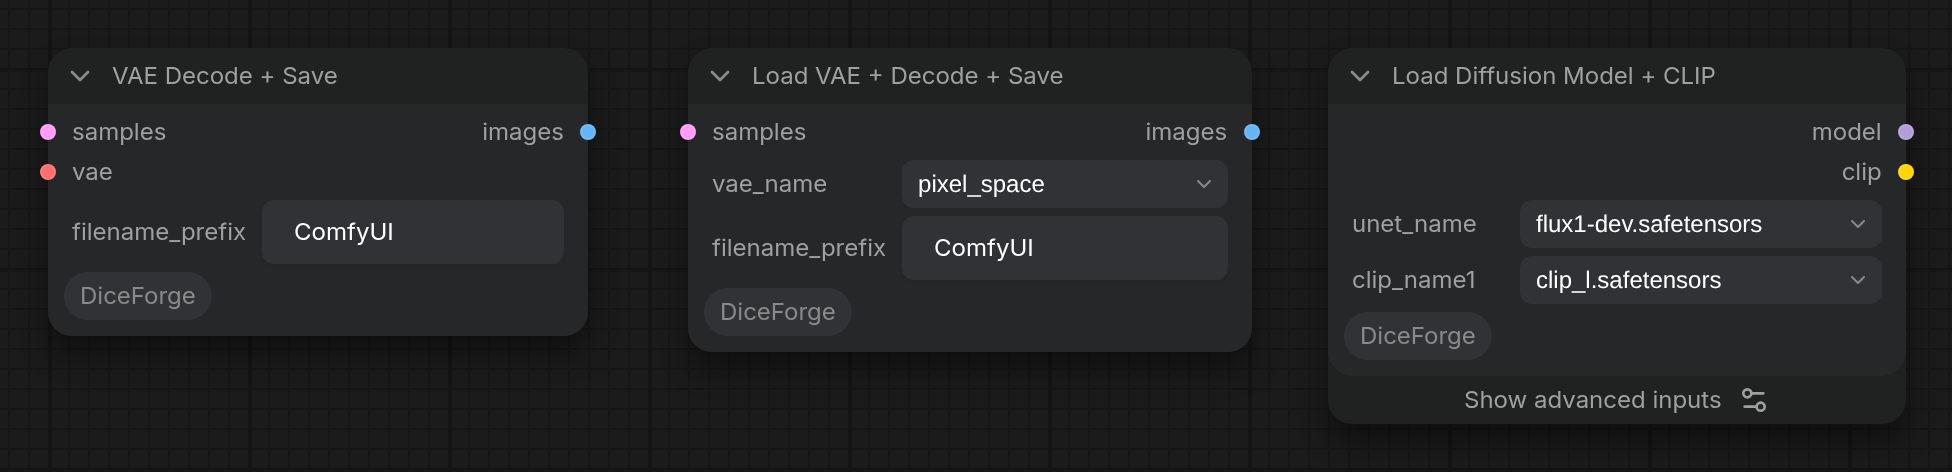
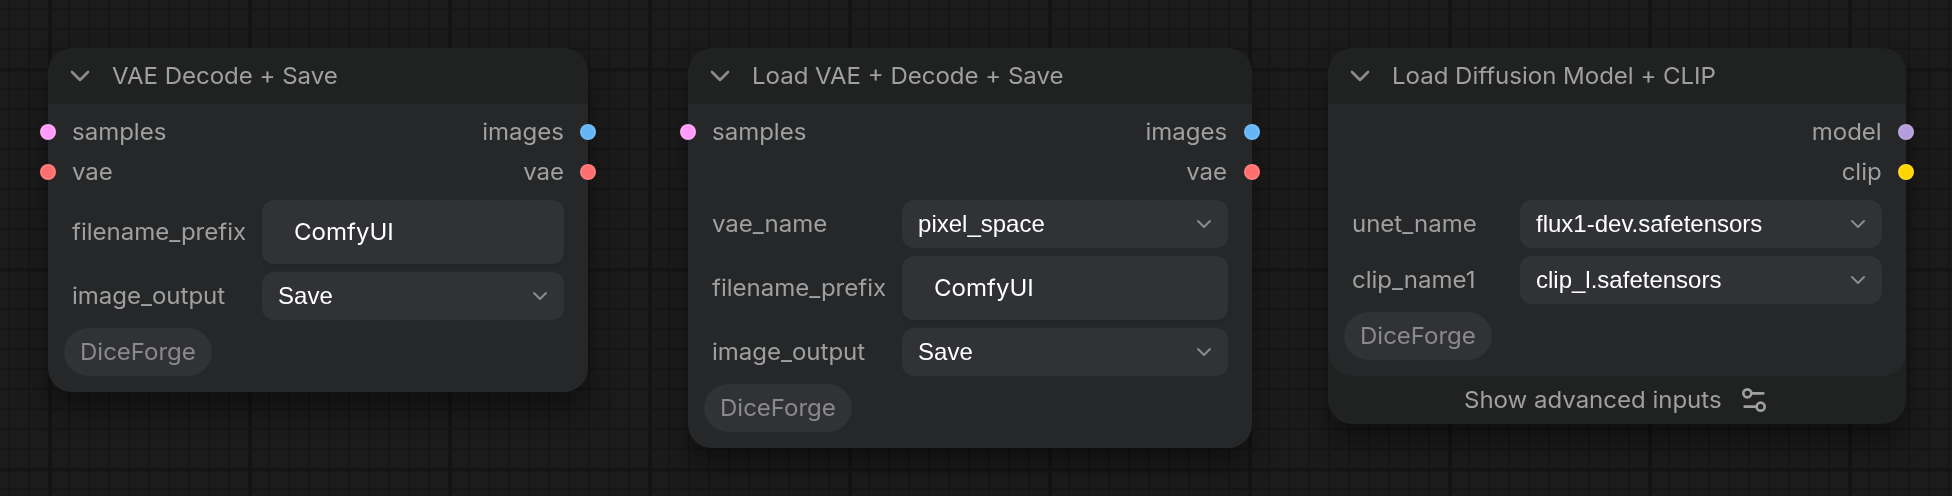
Decode + Save nodes: image_output (Hide, Preview, Save, Hide&Save) and a vae output
- image_output, as in Easy-Use's samplers: Hide only passes the images
  on, Preview shows them without saving, Save saves and shows (the
  default, as before), Hide&Save saves without showing. Optional, so
  workflows and API prompts made before it save as they did; an unknown
  value is refused before decoding.
- vae output after images: VAE Decode + Save passes its vae input on,
  Load VAE + Decode + Save the VAE it loaded (for VAE Encode in a hires
  fix or inpaint). Existing links to images keep working.
- Unit and e2e tests (every mode, the vae output feeding VAE Encode);
  README and screenshot.

Claude-Session: https://claude.ai/code/session_01MJGDoLbJHNqDgSZcxrjbuh

diff --git a/e2e/api.spec.js b/e2e/api.spec.js
@@ -136,6 +136,22 @@ test.describe("@api workflows and routes", () => {
     result = await runPrompt(request, { ...pixelSpace, 1: { class_type: "LoadVAEDecodeSave", inputs: { samples: ["12", 0], vae_name: "pixel_space", filename_prefix: "e2e/load_vds" } } });
     expect(result.status).toBe("success");
     expect(outputFiles("e2e", "load_vds_")).toHaveLength(2);
+    // image_output: Preview shows without saving, Hide&Save saves without showing, Hide does neither; the vae output feeds the next nodes.
+    result = await runPrompt(request, { ...pixelSpace, 1: { class_type: "VAEDecodeSave", inputs: { samples: ["12", 0], vae: ["11", 0], filename_prefix: "e2e/io_preview", image_output: "Preview" } } });
+    expect(result.outputs["1"].images.every((image) => image.type === "temp")).toBe(true);
+    expect(outputFiles("e2e", "io_preview")).toHaveLength(0);
+    result = await runPrompt(request, { ...pixelSpace, 1: { class_type: "LoadVAEDecodeSave", inputs: { samples: ["12", 0], vae_name: "pixel_space", filename_prefix: "e2e/io_quiet", image_output: "Hide&Save" } } });
+    expect(result.status).toBe("success");
+    expect(result.outputs["1"]?.images ?? []).toHaveLength(0);
+    expect(outputFiles("e2e", "io_quiet")).toHaveLength(2);
+    result = await runPrompt(request, { ...pixelSpace,
+      1: { class_type: "LoadVAEDecodeSave", inputs: { samples: ["12", 0], vae_name: "pixel_space", filename_prefix: "e2e/io_hidden", image_output: "Hide" } },
+      2: { class_type: "VAEEncode", inputs: { pixels: ["1", 0], vae: ["1", 1] } }, // The loaded VAE, passed on.
+      3: { class_type: "VAEDecodeSave", inputs: { samples: ["2", 0], vae: ["1", 1], filename_prefix: "e2e/io_again_%width%x%height%" } } });
+    expect(result.status).toBe("success");
+    expect(outputFiles("e2e", "io_hidden")).toHaveLength(0);
+    expect(outputFiles("e2e", "io_again_64x48")).toHaveLength(2);
+    expect((await request.post("/prompt", { data: { prompt: { ...pixelSpace, 1: { class_type: "VAEDecodeSave", inputs: { samples: ["12", 0], vae: ["11", 0], filename_prefix: "x", image_output: "Sideways" } } } } })).status()).toBe(400);
   });
 
   test("Dice Grid collects runs and saves the finished grid", async ({ request }) => {

diff --git a/DiceForge/load_vae_decode_save.py b/DiceForge/load_vae_decode_save.py
@@ -3,16 +3,42 @@ from typing_extensions import override
 from comfy_api.latest import ComfyExtension, io, ui
 # Last loaded VAE, kept between runs: the latent changes on every run, so without this cache the VAE file would be loaded again each time.
 _vae_cache = {"name": None, "vae": None}
+# What happens to the decoded images, as in Easy-Use's samplers: Hide (only passed on), Preview (shown on the node, not saved), Save (saved and
+# shown, as Save Image does) or Hide&Save (saved, not shown). The images are passed on in every case.
+IMAGE_OUTPUTS = ["Hide", "Preview", "Save", "Hide&Save"]
+# The VAE used, passed on (for an upscale and a second decode, a hires fix, an inpaint encode...): the one loaded, or the one of the vae input.
+def vae_output():
+    return io.Vae.Output(display_name="vae", tooltip="The VAE used for decoding, passed on: for example for VAE Encode in a hires fix or inpaint.")
+def image_output_input():
+    return io.Combo.Input(
+        "image_output",
+        options=IMAGE_OUTPUTS,
+        default="Save",
+        optional=True, # Workflows and API prompts made before it save, as they did.
+        tooltip="Hide: only pass the images on. Preview: show them on the node without saving. Save: save the PNG files and show them, like Save Image. Hide&Save: save without showing.",
+    )
 # Decoding as in the core VAE Decode node, then saving as in the core Save Image node: PNG files in the output folder, with the prompt and workflow
-# as metadata. The decoded images are also passed on. Shared by both nodes below.
-def decode_and_save(node_class, vae, samples, filename_prefix):
+# as metadata (or only showing them, by image_output). The decoded images are also passed on. Shared by both nodes below.
+def decode_and_save(node_class, vae, samples, filename_prefix, image_output="Save"):
+    if image_output not in IMAGE_OUTPUTS: # Before decoding: a wrong value costs nothing.
+        raise ValueError(f"VAE Decode + Save: unknown image_output {image_output!r} (one of {', '.join(IMAGE_OUTPUTS)}).")
+    outputs = decode(vae, samples), vae
+    if image_output == "Hide":
+        return io.NodeOutput(*outputs)
+    if image_output == "Preview":
+        return io.NodeOutput(*outputs, ui=ui.PreviewImage(outputs[0], cls=node_class))
+    if image_output == "Hide&Save":
+        ui.ImageSaveHelper.save_images(outputs[0], filename_prefix=filename_prefix, folder_type=io.FolderType.output, cls=node_class)
+        return io.NodeOutput(*outputs)
+    return io.NodeOutput(*outputs, ui=ui.ImageSaveHelper.get_save_images_ui(outputs[0], filename_prefix=filename_prefix, cls=node_class))
+def decode(vae, samples):
     latent = samples["samples"]
     if latent.is_nested:
         latent = latent.unbind()[0] # A nested latent uses its first tensor.
     images = vae.decode(latent)
     if len(images.shape) == 5:
         images = images.reshape(-1, images.shape[-3], images.shape[-2], images.shape[-1]) # 5D (video-style) output is flattened into a batch of frames.
-    return io.NodeOutput(images, ui=ui.ImageSaveHelper.get_save_images_ui(images, filename_prefix=filename_prefix, cls=node_class))
+    return images
 FILENAME_PREFIX_TOOLTIP = "The prefix for the file to save. A / makes a subfolder. May include %year%, %month%, %day%, %hour%, %minute%, %second%, %width% and %height%."
 # Node schema (V3 / Nodes 2.0) that combines Load VAE, VAE Decode and Save Image: it takes a latent, decodes it and saves PNG files with the same metadata as the core Save Image node.
 class LoadVAEDecodeSave(io.ComfyNode):
@@ -34,8 +60,9 @@ class LoadVAEDecodeSave(io.ComfyNode):
                     default="ComfyUI",
                     tooltip=FILENAME_PREFIX_TOOLTIP,
                 ),
+                image_output_input(),
             ],
-            outputs=[io.Image.Output(display_name="images")],
+            outputs=[io.Image.Output(display_name="images"), vae_output()],
             hidden=[io.Hidden.prompt, io.Hidden.extra_pnginfo],
             is_output_node=True,
         )
@@ -48,8 +75,8 @@ class LoadVAEDecodeSave(io.ComfyNode):
             _vae_cache.update(name=vae_name, vae=vae)
         return _vae_cache["vae"]
     @classmethod
-    def execute(cls, samples, vae_name, filename_prefix="ComfyUI"):
-        return decode_and_save(cls, cls.load_vae(vae_name), samples, filename_prefix)
+    def execute(cls, samples, vae_name, filename_prefix="ComfyUI", image_output="Save"):
+        return decode_and_save(cls, cls.load_vae(vae_name), samples, filename_prefix, image_output)
 # The same without Load VAE: VAE Decode and Save Image in one node, with the VAE from an input (a checkpoint's VAE, Load VAE, Random VAE...).
 class VAEDecodeSave(io.ComfyNode):
     @classmethod
@@ -62,14 +89,15 @@ class VAEDecodeSave(io.ComfyNode):
                 io.Latent.Input("samples", tooltip="The latent to decode."),
                 io.Vae.Input("vae", tooltip="The VAE used for decoding, for example the VAE output of Load Checkpoint or Load VAE."),
                 io.String.Input("filename_prefix", default="ComfyUI", tooltip=FILENAME_PREFIX_TOOLTIP),
+                image_output_input(),
             ],
-            outputs=[io.Image.Output(display_name="images")],
+            outputs=[io.Image.Output(display_name="images"), vae_output()],
             hidden=[io.Hidden.prompt, io.Hidden.extra_pnginfo],
             is_output_node=True,
         )
     @classmethod
-    def execute(cls, samples, vae, filename_prefix="ComfyUI"):
-        return decode_and_save(cls, vae, samples, filename_prefix)
+    def execute(cls, samples, vae, filename_prefix="ComfyUI", image_output="Save"):
+        return decode_and_save(cls, vae, samples, filename_prefix, image_output)
 # Extension entry point for ComfyUI V3 node registration.
 class VAEDecodeSaveExtension(ComfyExtension):
     @override

diff --git a/tests/test_vae_decode_save.py b/tests/test_vae_decode_save.py
@@ -79,3 +79,33 @@ def test_a_failed_load_is_tried_again_next_run(monkeypatch):
     with pytest.raises(RuntimeError):
         LoadVAEDecodeSave.load_vae("c.safetensors")
     assert _vae_cache["name"] is None
+
+
+def output_files(prefix):
+    folder = os.path.join(folder_paths.get_output_directory(), "DiceForge")
+    return sorted(name for name in os.listdir(folder) if name.startswith(prefix)) if os.path.isdir(folder) else []
+
+
+def test_image_output_hide_preview_save_hide_and_save(with_workflow):
+    for node, args in ((VAEDecodeSave, (FakeVAE(),)), (LoadVAEDecodeSave, ())):
+        if node is LoadVAEDecodeSave:
+            _vae_cache.update(name="fake.safetensors", vae=FakeVAE()) # Already loaded: no file needed.
+            args = ("fake.safetensors",)
+        tag = node.__name__
+        hidden = node.execute(latent(batch=2), *args, f"DiceForge/io_hide_{tag}", image_output="Hide")
+        assert tuple(hidden.result[0].shape) == (2, 48, 64, 3) and hidden.ui is None and output_files(f"io_hide_{tag}") == []
+        assert hidden.result[1] is (args[0] if node is VAEDecodeSave else _vae_cache["vae"]) # The VAE used, passed on.
+        preview = node.execute(latent(), *args, f"DiceForge/io_preview_{tag}", image_output="Preview")
+        shown = preview.ui.as_dict()["images"]
+        assert len(shown) == 1 and shown[0]["type"] == "temp" and output_files(f"io_preview_{tag}") == [] # Shown, not saved.
+        saved = node.execute(latent(), *args, f"DiceForge/io_save_{tag}", image_output="Save")
+        assert saved.ui.as_dict()["images"][0]["type"] == "output" and len(output_files(f"io_save_{tag}")) == 1
+        quiet = node.execute(latent(batch=2), *args, f"DiceForge/io_quiet_{tag}", image_output="Hide&Save")
+        assert quiet.ui is None and len(output_files(f"io_quiet_{tag}")) == 2 # Saved, not shown.
+        default = node.execute(latent(), *args, f"DiceForge/io_default_{tag}") # Workflows made before image_output: Save.
+        assert len(output_files(f"io_default_{tag}")) == 1
+    vae = FakeVAE()
+    with pytest.raises(ValueError, match="unknown image_output"):
+        VAEDecodeSave.execute(latent(), vae, "DiceForge/io_bad", image_output="Sideways")
+    assert vae.decoded == [] # Refused before decoding.
+    _vae_cache.update(name=None, vae=None)

diff --git a/README.md b/README.md
@@ -34,8 +34,8 @@ The remembering modes keep their memory in a small file, so they continue after 
 | **Random Image** | DiceForge/loaders | `DiceForge/random_image.py` | You want an input image (img2img, ControlNet pose, IP-Adapter reference) picked from a folder, like **Load Image** with the file picked for you. |
 | **Random Sampler** | DiceForge/sampling | `DiceForge/random_sampler.py` | You want to compare samplers and schedulers: it picks a pair for KSampler from the ones you list. |
 | **Random VAE** | DiceForge/loaders | `DiceForge/random_vae.py` | You want to try the VAEs of a folder, like **Load VAE** with the file picked for you. |
-| **Load VAE + Decode + Save** | utils | `DiceForge/load_vae_decode_save.py` | You want Load VAE, VAE Decode and Save Image in one node: it decodes the latent with the chosen VAE and saves PNG files with the workflow, like Save Image, and passes the images on. The VAE stays loaded between runs while its name stays the same. |
-| **VAE Decode + Save** | utils | `DiceForge/load_vae_decode_save.py` | The same without Load VAE: VAE Decode and Save Image in one node, with the VAE from its `vae` input (the VAE of Load Checkpoint, Load VAE, Random VAE…). Saves PNG files with the workflow, like Save Image, and passes the images on. |
+| **Load VAE + Decode + Save** | utils | `DiceForge/load_vae_decode_save.py` | You want Load VAE, VAE Decode and Save Image in one node: it decodes the latent with the chosen VAE and saves PNG files with the workflow, like Save Image, and passes the images on. The VAE stays loaded between runs while its name stays the same. `image_output` decides what happens to the images, as in Easy-Use's samplers: *Hide* (only passed on), *Preview* (shown, not saved), *Save* (saved and shown, the default) or *Hide&Save* (saved, not shown). The `vae` output passes the VAE on (for VAE Encode in a hires fix or inpaint). |
+| **VAE Decode + Save** | utils | `DiceForge/load_vae_decode_save.py` | The same without Load VAE: VAE Decode and Save Image in one node, with the VAE from its `vae` input (the VAE of Load Checkpoint, Load VAE, Random VAE…). Saves PNG files with the workflow, like Save Image, and passes the images and the VAE on. The same `image_output` choice (Hide, Preview, Save, Hide&Save). |
 | **Load Diffusion Model + CLIP** | utils | `DiceForge/load_diffusion_model_clip.py` | You want Load Diffusion Model and Load CLIP in one node, for models that come as separate files (Flux, Anima, Qwen-Image...): the model from `models/diffusion_models` and one text encoder, or two like DualCLIPLoader when `clip_name2` is set. The CLIP type is checked against the number of files before anything loads. |
 | **Dice Grid** | DiceForge/image | `DiceForge/dice_grid.py` | You want the images of a series side by side with labels: a LoRA, checkpoint or setting comparison, or an XY grid. |
 | **Random Diffusion Model** | DiceForge/loaders | `DiceForge/random_diffusion_model.py` | The same for diffusion models (`models/diffusion_models`, Flux and the like), like **Load Diffusion Model**. |
